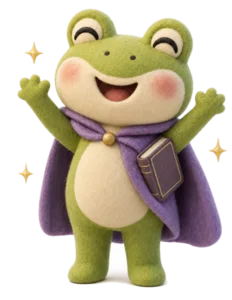
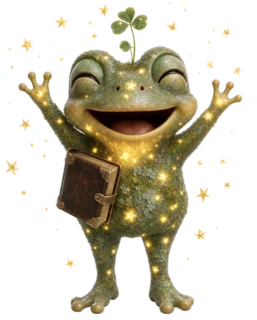
The frog becomes a magical creature in the style of the wizarding films' beasts: mossy lichen skin with glowing gold star freckles, a clover sprout, big golden-rimmed eyes and an old leather spellbook, in six poses made from one reference (idle, blink, wave, cast, happy, puzzled). cutout.py takes th

diff --git a/design/frog/demo/index.html b/design/frog/demo/index.html
@@ -6,22 +6,24 @@
 <title>Frog spells — a demo</title>
 <style>
 :root {
-  --bg: #f4f7f4; --paper: #ffffff; --ink: #18201b; --dim: #5d6a61; --line: #d9e2db;
-  --accent: #5fae6e; --accent-ink: #0f3d1a; --sel: #b9e3c1; --mark: #fff0a8; --mark-ink: #4a3b00;
-  --card: #ffffff; --card-line: #cfdad2; --hover: #eef6ef; --shadow: 0 10px 30px rgba(20, 40, 25, .18), 0 2px 6px rgba(20, 40, 25, .10);
-  --purple: #8a6cc4;
+  --bg: #f3ede1; --paper: #fffaf0; --ink: #2a2118; --dim: #6e6152; --line: #e2d6c0;
+  --accent: #b8862b; --accent-ink: #fffaf0; --sel: #f1dca3; --mark: #fbe7a6; --mark-ink: #4a3300;
+  --card: #fffaf0; --card-line: #d8c6a4; --hover: #f5e9cf; --shadow: 0 12px 34px rgba(60, 40, 10, .22), 0 2px 6px rgba(60, 40, 10, .12);
+  --gold: #c99a3b; --glow: rgba(233, 189, 92, .35);
+  --serif: "Iowan Old Style", "Palatino Linotype", Palatino, "Book Antiqua", Georgia, serif;
 }
 @media (prefers-color-scheme: dark) {
   :root {
-    --bg: #141916; --paper: #1b211d; --ink: #e9efe9; --dim: #9fada3; --line: #2c352f;
-    --accent: #7dd492; --accent-ink: #072b11; --sel: #2f5a3a; --mark: #5a4b12; --mark-ink: #fff3c4;
-    --card: #222a25; --card-line: #36423a; --hover: #2b352f; --shadow: 0 12px 34px rgba(0, 0, 0, .5), 0 2px 6px rgba(0, 0, 0, .4);
+    --bg: #12100d; --paper: #1c1813; --ink: #f1e8d8; --dim: #b3a58d; --line: #332b21;
+    --accent: #e0b456; --accent-ink: #1c1406; --sel: #5a4520; --mark: #6b4f14; --mark-ink: #fff1c9;
+    --card: #211c15; --card-line: #4a3d2a; --hover: #2e271d; --shadow: 0 14px 40px rgba(0, 0, 0, .6), 0 0 0 1px rgba(224, 180, 86, .08);
+    --gold: #e0b456; --glow: rgba(224, 180, 86, .28);
   }
 }
 * { box-sizing: border-box; }
 body { margin: 0; background: var(--bg); color: var(--ink); font: 17px/1.65 Inter, system-ui, -apple-system, "Segoe UI", sans-serif; }
 main { max-width: 900px; margin: 0 auto; padding: 28px 22px 140px; position: relative; }
-h1 { font-size: 22px; margin: 0 0 4px; letter-spacing: -.01em; }
+h1 { font: 600 28px/1.2 var(--serif); margin: 0 0 6px; }
 .lead { color: var(--dim); margin: 0 0 18px; font-size: 15px; }
 .doc { max-width: 640px; background: var(--paper); border: 1px solid var(--line); border-radius: 14px; padding: 22px 26px; }
 .doc p { margin: 0 0 14px; }
@@ -31,8 +33,9 @@ h1 { font-size: 22px; margin: 0 0 4px; letter-spacing: -.01em; }
 .opts label { display: inline-flex; gap: 6px; align-items: center; cursor: pointer; }
 
 /* ---- the frog ---------------------------------------------------------- */
-#frog { position: absolute; width: 62px; height: 80px; z-index: 20; cursor: pointer; display: none;
-  transform-origin: 50% 100%; filter: drop-shadow(0 4px 6px rgba(0, 0, 0, .18)); }
+#frog { position: absolute; width: 124px; height: 155px; z-index: 20; cursor: pointer; display: none;
+  transform-origin: 50% 100%; filter: drop-shadow(0 4px 6px rgba(0, 0, 0, .22)); }
+#frog.busy { filter: drop-shadow(0 0 14px var(--glow)) drop-shadow(0 4px 6px rgba(0, 0, 0, .22)); }
 #frog img { position: absolute; inset: 0; width: 100%; height: 100%; object-fit: contain; pointer-events: none; user-select: none; -webkit-user-drag: none; }
 #frog .body { position: absolute; inset: 0; transform-origin: 50% 100%; animation: breathe 2.8s ease-in-out infinite; }
 #frog.enter { animation: hopIn .55s cubic-bezier(.25, 1.5, .5, 1) both; }
@@ -47,8 +50,8 @@ h1 { font-size: 22px; margin: 0 0 4px; letter-spacing: -.01em; }
 @keyframes bob { from { transform: translateY(0) rotate(-2deg); } to { transform: translateY(-5px) rotate(2deg); } }
 @keyframes jump { 0% { transform: none; } 40% { transform: translateY(-16px) scale(.96, 1.05); } 70% { transform: translateY(0) scale(1.06, .94); } 100% { transform: none; } }
 @keyframes shake { 0%, 100% { transform: none; } 25% { transform: rotate(-6deg); } 75% { transform: rotate(6deg); } }
-#frog.small { width: 40px; height: 52px; }
-.tip { position: absolute; left: 50%; bottom: 100%; transform: translate(-50%, -4px); white-space: nowrap; font-size: 12.5px; font-weight: 600;
+#frog.small { width: 84px; height: 105px; }
+.tip { position: absolute; left: 50%; bottom: 100%; transform: translate(-50%, 6px); white-space: nowrap; font-size: 12.5px; font-weight: 600;
   background: var(--ink); color: var(--paper); padding: 3px 9px; border-radius: 99px; opacity: 0; transition: opacity .15s; pointer-events: none; }
 #frog:hover .tip { opacity: 1; }
 .spark { position: absolute; width: 8px; height: 8px; z-index: 21; pointer-events: none; color: #f1c74c; font-size: 13px; line-height: 8px;
@@ -60,13 +63,15 @@ h1 { font-size: 22px; margin: 0 0 4px; letter-spacing: -.01em; }
   animation: pop .16s ease-out both; }
 @keyframes pop { from { opacity: 0; transform: translateY(6px) scale(.97); } }
 #book { width: 330px; padding: 8px; }
-#book h2 { font-size: 12px; text-transform: uppercase; letter-spacing: .08em; color: var(--dim); margin: 4px 10px 6px; font-weight: 700; }
+#book h2 { font: italic 600 19px/1.2 var(--serif); color: var(--gold); margin: 6px 10px 8px; }
+.card { background-image: radial-gradient(120% 80% at 0% 0%, var(--glow), transparent 60%); }
 .spell { display: flex; align-items: center; gap: 12px; width: 100%; border: 0; background: none; color: inherit; font: inherit; text-align: left;
   padding: 6px 10px; border-radius: 10px; cursor: pointer; opacity: 0; animation: fan .22s ease-out forwards; }
 .spell:hover, .spell.on { background: var(--hover); }
 .spell .ic { flex: 0 0 30px; height: 30px; border-radius: 10px; display: grid; place-items: center; font-size: 18px; background: var(--hover); }
 .spell.on .ic, .spell:hover .ic { background: var(--accent); }
 .spell .nm { flex: 1; font-size: 15.5px; font-weight: 600; line-height: 1.25; }
+.spell.on .ic, .spell:hover .ic { box-shadow: 0 0 12px var(--glow); }
 .spell .out { font-size: 13px; color: var(--dim); margin-right: 2px; }
 kbd { font: 600 12.5px/1 ui-monospace, "SF Mono", Menlo, monospace; min-width: 24px; text-align: center; padding: 5px 7px; border-radius: 7px;
   border: 1px solid var(--card-line); border-bottom-width: 2px; color: var(--dim); background: var(--paper); }
@@ -76,7 +81,7 @@ kbd { font: 600 12.5px/1 ui-monospace, "SF Mono", Menlo, monospace; min-width: 2
 .foot { font-size: 12px; color: var(--dim); padding: 4px 10px 2px; }
 
 #answer { width: min(440px, calc(100vw - 30px)); padding: 14px 16px 12px; }
-#answer .title { font-size: 12px; text-transform: uppercase; letter-spacing: .08em; color: var(--dim); font-weight: 700; margin-bottom: 6px; }
+#answer .title { font: italic 600 17px/1.2 var(--serif); color: var(--gold); margin-bottom: 8px; }
 #answer .text { font-size: 16.5px; line-height: 1.6; }
 #answer ins { text-decoration: none; background: var(--mark); color: var(--mark-ink); border-radius: 4px; padding: 0 2px; }
 #answer .row { display: flex; gap: 8px; margin-top: 12px; align-items: center; }
@@ -90,7 +95,7 @@ button.b.go { background: var(--accent); border-color: var(--accent); color: var
 </head>
 <body>
 <main id="main">
-  <h1>Frog spells</h1>
+  <h1>The frog’s spellbook</h1>
   <p class="lead">Select a few words with the mouse. The frog hops next to your selection. Click it (or press its key) and pick a spell. Ignore it and it hops away after a few seconds. The answers here are pretend; in Chattering they come from your programs.</p>
   <div class="doc" id="doc">
     <p>hey sam, i has went to the store yesterday and buyed three apple, its was realy good. their going to the meeting tomorow, can you send me the agenda before</p>
@@ -155,8 +160,8 @@ function place() {
   frog.style.display = 'block';
   const m = main.getBoundingClientRect();
   if (document.getElementById('noPos').checked) {
-    frog.style.left = (m.width - 84) + 'px';
-    frog.style.top = (innerHeight - m.top - 120) + 'px';
+    frog.style.left = (m.width - 130) + 'px';
+    frog.style.top = (innerHeight - m.top - 175) + 'px';
     return;
   }
   // The text's box: here the paragraph's container; on a desktop, the text
@@ -164,14 +169,14 @@ function place() {
   const rects = range.getClientRects(); const r = rel(rects[rects.length - 1]);
   const box = rel(doc.getBoundingClientRect());
   const room = m.width - box.right;
-  if (room >= 70) {
+  if (room >= 130) {
     frog.classList.remove('small');
-    frog.style.left = (box.right + 10) + 'px';
-    frog.style.top = (r.bottom - 80 + 8) + 'px';
+    frog.style.left = (box.right - 8) + 'px';
+    frog.style.top = (r.bottom - 155 + 18) + 'px';
   } else {
     frog.classList.add('small');
-    frog.style.left = Math.min(r.right + 2, m.width - 42) + 'px';
-    frog.style.top = (r.bottom - 52 + 6) + 'px';
+    frog.style.left = Math.min(r.right - 10, m.width - 86) + 'px';
+    frog.style.top = (r.bottom - 105 + 12) + 'px';
   }
 }
 function appear() {
@@ -223,7 +228,7 @@ function cardAt(el) {
 function openBook() {
   clearTimeout(fadeT); closeCards();
   const el = document.createElement('div'); el.className = 'card'; el.id = 'book';
-  el.innerHTML = '<h2>Spells</h2>' + SPELLS.map((s, i) => `<button class="spell${i === 0 ? ' on' : ''}" data-i="${i}" style="animation-delay:${i * 35}ms"><span class="ic">${s.ic}</span><span class="nm">${s.name}</span><kbd>${s.key}</kbd></button>`).join('')
+  el.innerHTML = '<h2>Your spells</h2>' + SPELLS.map((s, i) => `<button class="spell${i === 0 ? ' on' : ''}" data-i="${i}" style="animation-delay:${i * 35}ms"><span class="ic">${s.ic}</span><span class="nm">${s.name}</span><kbd>${s.key}</kbd></button>`).join('')
     + '<div class="free"><input id="freeSpell" placeholder="Or say what to do… (Enter)" autocomplete="off"></div><div class="foot">Press a spell’s letter, or ↑ ↓ and Enter · Esc closes · you see the answer before anything changes</div>';
   el.addEventListener('mousedown', e => { if (e.target.id !== 'freeSpell') e.preventDefault(); });
   el.querySelectorAll('.spell').forEach(b => b.onclick = () => cast(SPELLS[+b.dataset.i]));
@@ -250,7 +255,7 @@ document.addEventListener('keydown', e => {
 });
 
 function sparkles(n = 7) {
-  const fx = parseFloat(frog.style.left) + 18, fy = parseFloat(frog.style.top) + 18;
+  const fx = parseFloat(frog.style.left) + frog.offsetWidth / 2, fy = parseFloat(frog.style.top) + frog.offsetHeight * .45;
   for (let i = 0; i < n; i++) {
     const s = document.createElement('span'); s.className = 'spark'; s.textContent = '✦';
     s.style.left = fx + 'px'; s.style.top = fy + 'px';

diff --git a/design/frog/cutout.py b/design/frog/cutout.py
@@ -1,0 +1,80 @@
+#!/usr/bin/env python3
+"""Cut a creature out of its white background, keeping glowing dust.
+
+cutout.py IN.png OUT.png
+
+The creature is solid: everything connected to it that is not near-white.
+The rest (the background, and the gold dust floating in it) becomes
+see-through by "un-mixing" white: a pixel that is white mixed with gold
+becomes gold at that strength, so sparkles glow on any background with no
+white halo. The grey floor shadow (colourless) is dropped.
+"""
+import sys
+import numpy as np
+from PIL import Image
+from scipy import ndimage
+
+src, dst = sys.argv[1], sys.argv[2]
+rgb = np.asarray(Image.open(src).convert("RGB")).astype(np.float32) / 255.0
+h, w, _ = rgb.shape
+
+# Distance from white, and colourfulness.
+dist = 1.0 - rgb.min(axis=2)
+sat = rgb.max(axis=2) - rgb.min(axis=2)
+
+# The background: near-white, or a light grey (the floor shadow), connected
+# to the image border.
+bgcand = (dist < 0.10) | ((sat < 0.06) & (dist < 0.40))
+lab, _ = ndimage.label(bgcand)
+border = np.unique(np.concatenate([lab[0], lab[-1], lab[:, 0], lab[:, -1]]))
+background = np.isin(lab, border[border > 0])
+
+# The creature: found from its darker body (the pale gold dust around it
+# never counts), its inside filled (glossy highlights are near-white),
+# then grown back to its real edge.
+seed = ~background & (dist > 0.30)
+lab2, n = ndimage.label(seed)
+sizes = ndimage.sum(seed, lab2, range(1, n + 1))
+body = lab2 == (1 + int(np.argmax(sizes)))
+body = ndimage.binary_closing(body, iterations=3)
+body &= ~background  # smoothing must not claim the outer background
+grown = ndimage.binary_dilation(body, iterations=3) & ~background & (dist > 0.24)
+body = body | grown
+# Holes: small ones are the eyes' highlights (kept, solid); big pale ones
+# are background an arm closes in (beside the book, under a raised arm).
+holes = ndimage.binary_fill_holes(body) & ~body
+hl, hn = ndimage.label(holes)
+if hn:
+    hsize = ndimage.sum(holes, hl, range(1, hn + 1))
+    for i, sz in enumerate(hsize, 1):
+        region = hl == i
+        # An eye's glint: bright, small, ringed by the dark eye. Background an
+        # arm closes in: pale, ringed by green skin.
+        ring = ndimage.binary_dilation(region, iterations=3) & ~region
+        dark_ring = dist[ring].mean() > 0.6
+        pale = ((dist[region] < 0.30) & (sat[region] < 0.10)).mean() > 0.5
+        if dark_ring or not pale or sz < 60:
+            body |= region
+body = ndimage.binary_opening(body, iterations=1)
+# Near the floor, grey is shadow, not toes: toes are clearly coloured.
+floor = np.zeros_like(body); floor[int(h * 0.86):] = True
+body &= ~(floor & (sat < 0.10))
+body_a = ndimage.gaussian_filter(body.astype(np.float32), 0.9)
+
+# Everything else: un-mixed from white. Alpha is how far from white it is;
+# its colour is what, mixed with white at that alpha, gives the pixel.
+# Only colourful dust stays (gold sparkles); pale haze and grey go.
+a = np.clip(dist * 1.15, 0, 1) * np.clip((sat - 0.05) / 0.15, 0, 1)
+# The floor shadow is grey (colourless): it goes. Gold dust is colourful: it stays.
+shadowish = sat < 0.06
+a = np.where(shadowish, 0.0, a)
+a = np.where(a < 0.035, 0.0, a)
+
+alpha = np.maximum(body_a, a)
+safe = np.maximum(alpha, 1e-4)[..., None]
+color = np.where(body_a[..., None] > 0.5, rgb, np.clip((rgb - (1.0 - safe)) / safe, 0, 1))
+
+out = np.dstack([color, alpha])
+Image.fromarray((out * 255 + 0.5).astype(np.uint8), "RGBA").save(dst)
+ys, xs = np.nonzero(alpha > 0.05)
+print(f"{dst}: content box {xs.min()},{ys.min()} - {xs.max()},{ys.max()}")

diff --git a/design/frog/README.md b/design/frog/README.md
@@ -1,24 +1,30 @@
 # The frog (Chattering's mascot, design/93)
 
-A felt-plush humanoid frog with a purple cape and a little spellbook (the
-logo's frog sits on an open book). It appears beside selected text and
+A small, friendly magical creature in the style of the wizarding-film
+beasts: a mossy frog with glowing gold star freckles, a clover sprout and an
+old leather spellbook (the logo's frog sits on an open book). It appears beside selected text and
 casts the person's programs as spells.
 
-- `cut/` — the masters: 1024 px, transparent. Poses: `idle`, `blink`
-  (idle with the eyes closed, pasted onto idle so a swap does not move
-  anything), `base-gpt` (waving hello), `cast` (book open, sparkles),
-  `happy` (done), `puzzled` (nothing selected, an error).
-- `web/` — the same, cropped to one box (so a pose swap never jumps) and
-  300 px tall WebP, about 11 KB each.
+- `cut/` — the masters: 1024 px, transparent. Poses: `idle` (hugging its
+  book), `blink` (idle with the eyes closed, pasted onto idle so a swap does
+  not move anything), `wave` (hello), `cast` (the book floating open, gold
+  stars), `happy` (done), `puzzled` (nothing selected, an error).
+- `web/` — the same, all in one frame (so a pose swap never jumps), 320 px
+  tall WebP, 13–25 KB each.
 - `demo/` — the interaction, in a page: the frog in the margin by the end
   of the selection, the spell book under it, the answer with its changed
-  words marked, Enter to replace.
-- `gen.py MODEL OUT.png "PROMPT" [REF.png]` — how they were made:
-  OpenRouter, `openai/gpt-5.4-image-2`, each pose with the first frog as
-  its reference so it stays one character. About $0.23 an image.
+  words marked, Enter to replace. Parchment by day, candlelight by night.
+- `prompts/creature.md` — what the image model was asked, pose by pose.
+- `gen.py MODEL OUT.png "PROMPT" [REF.png]` — OpenRouter image generation
+  (`openai/gpt-5.4-image-2`, about $0.23 an image).
+- `cutout.py IN.png OUT.png` — the white background taken out while the
+  gold dust stays: the creature is the large dark solid thing, the rest is
+  "un-mixed" from white so sparkles glow on any background with no halo;
+  background an arm closes in is cut, an eye's glint is kept. Needs numpy,
+  pillow and scipy: `nix shell --impure --expr 'with import (builtins.getFlake
+  "nixpkgs") {}; python3.withPackages (p: [ p.numpy p.pillow p.scipy ])'`.
 - `shoot.js CHROMIUM URL DIR [dark]` — the demo driven headless (select,
   frog, spells, cast, answer, replace) with screenshots.
 
-Background removal: a flood fill of the white from the corners (fuzz 7 %),
-the alpha eroded by a pixel and softened, then the pale floor shadow under
-the feet taken out (near-white pixels in the bottom fifth).
+The first frog (a felt plush with a purple cape) is in this folder's history
+(commit f899e61); the wizarding-creature style replaced it.

diff --git a/design/frog/prompts/creature.md b/design/frog/prompts/creature.md
@@ -1,0 +1,35 @@
+# How the creature was made
+
+Model: `openai/gpt-5.4-image-2` through OpenRouter (`gen.py`). Each pose
+was made with `raw/hp/b.png` (the first creature, waving) as its reference.
+
+The creature (the reference):
+
+> Creature design in the style of the magical beasts from the wizarding-world
+> fantasy films: a small, friendly, frog-like magical creature, photoreal film
+> CG with charm. Its skin looks like soft green lichen and moss with tiny
+> glowing star-shaped specks, its throat glows faintly gold when it smiles,
+> enormous dark glossy eyes with golden rims, round cheeks, a sprig of tiny
+> clover growing on its head. It hugs a tiny old leather book with brass
+> corners against its chest with one arm. It stands upright on two short legs
+> like a little person and waves one tiny four-fingered hand hello. Big head
+> and big eyes so it still reads when shown very small. No clothes, no hat,
+> no glasses, no wand. Centered, full body, plain pure white background,
+> faint soft contact shadow only, no text.
+
+Each pose: "Same creature as the reference image: identical mossy lichen skin
+with tiny glowing gold star specks, same clover sprout on its head, same big
+glossy dark eyes with golden rims, same proportions and size, same photoreal
+film-CG style and lighting, same camera distance, full body centered. No
+clothes, no hat, no glasses. Plain pure white background…" then:
+
+- idle: hugging the book against its chest with both arms, gentle content smile.
+- cast: the book floats open, pages glowing gold, a swirl of tiny golden stars
+  rising around its raised hands, throat glowing bright, eyes wide, mouth a small "o".
+- happy: both arms raised, eyes shut in happy arcs, big smile, a burst of gold stars.
+- puzzled: head tilted, scratching its head, clover drooping, unsure mouth.
+- blink: an edit of idle with the eyes closed; only the eyes are pasted onto
+  idle (a soft mask), so a blink never moves anything else.
+
+No character, crest, colour scheme or name from the films: only the style of
+their creatures.
